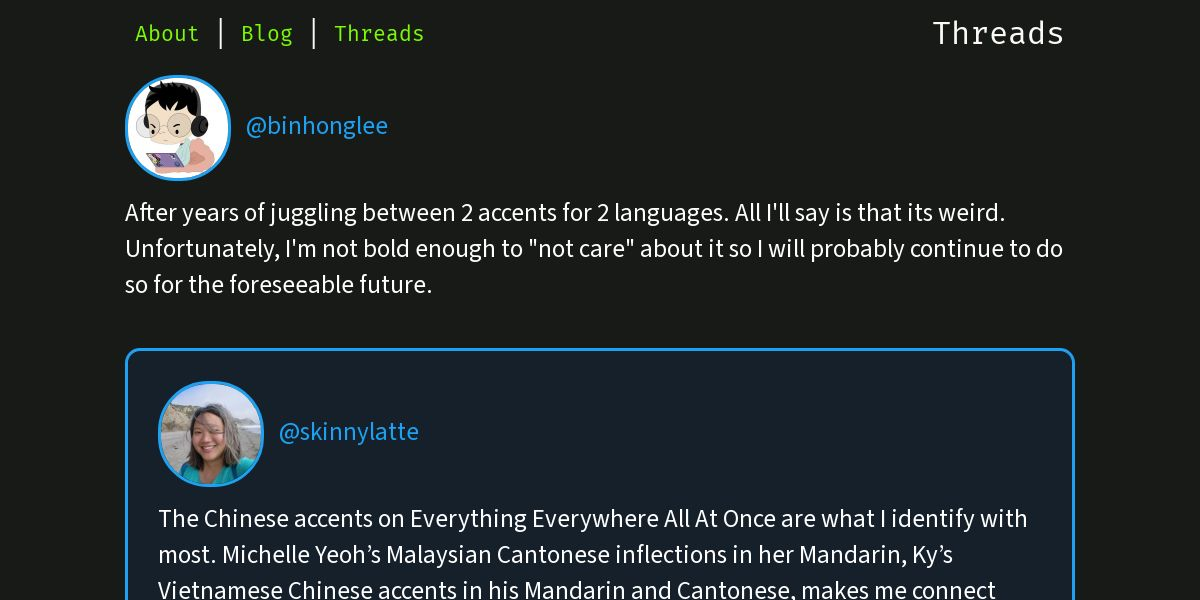
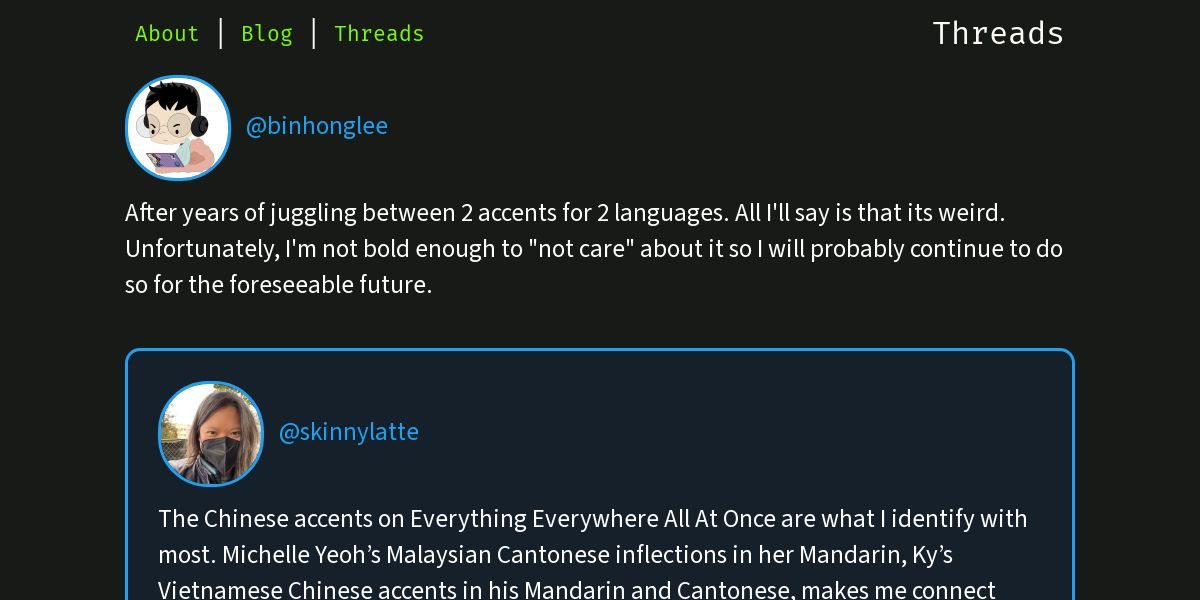
deploy: 6217428d9fccdec9637d18a3ba1b9b08e7b61c1f

Changed region(s): [[0.1233, 0.63, 0.2158, 0.81]]

diff --git a/1515418065302827011.html b/1515418065302827011.html
@@ -61,7 +61,7 @@
             <div class="tweet">
               <a rel="noopener noreferrer" href="https://twitter.com/skinnylatte/">
                 <div class="profile_picture_block">
-                  <img src="https://pbs.twimg.com/profile_images/1428243712207777793/J5mW4EGh_200x200.jpg" alt="Profile picture of @skinnylatte on Twitter." />
+                  <img src="https://pbs.twimg.com/profile_images/1550567212242444290/rhdOGIQH_200x200.jpg" alt="Profile picture of @skinnylatte on Twitter." />
                   @skinnylatte
                 </div>
               </a>
